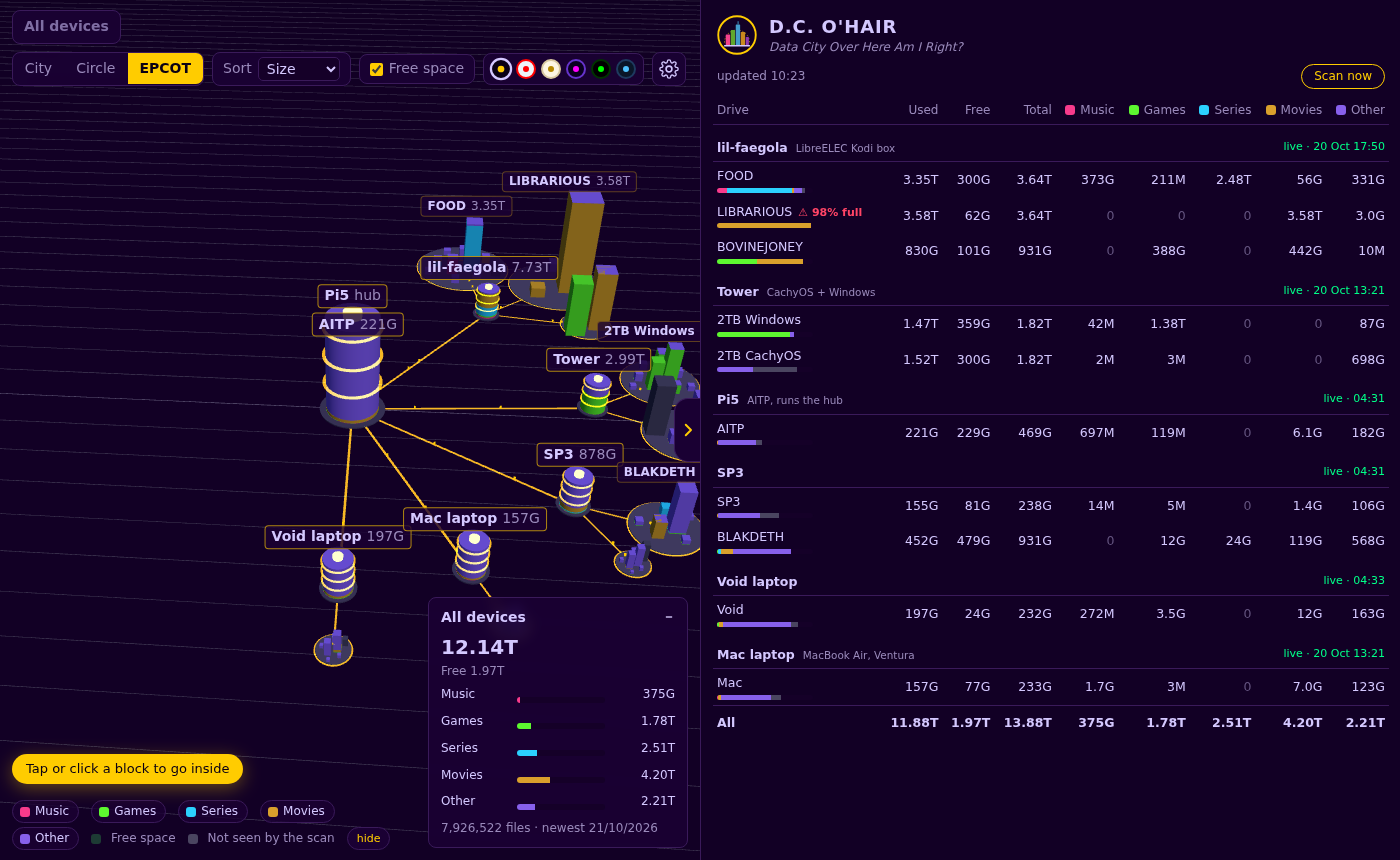
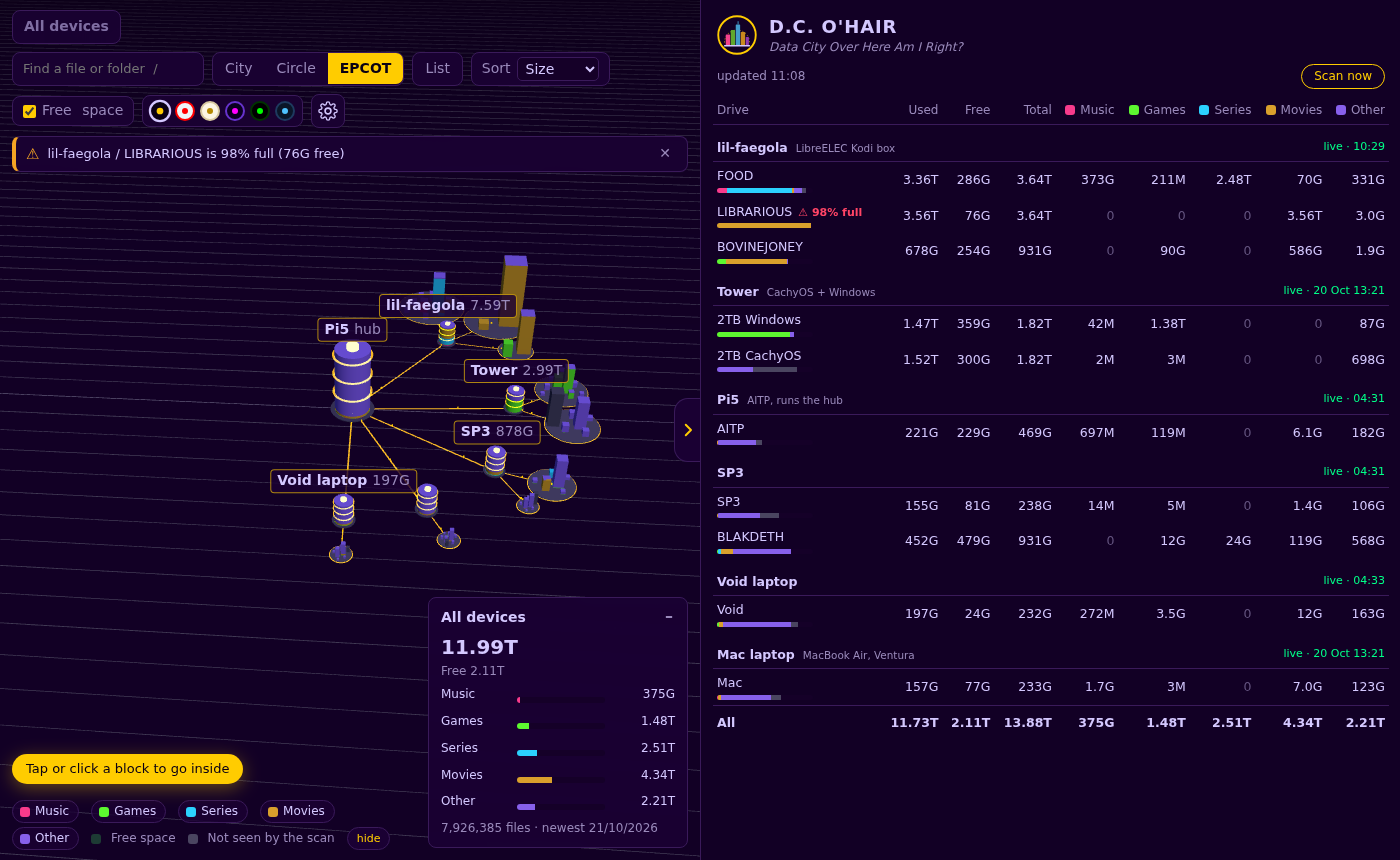
Phone and tablet polish, and a fresh set of screenshots (0.6.1)
The drive table becomes a draggable bottom sheet on narrow screens, touch
navigation works like a map (one finger moves, pinch zooms, two fingers
turn), the phone toolbar is tighter, the card starts small, and the
camera fits the city on tall screens. Every README GIF and screenshot is
re-taken; the README gains a 'What you can do with it' section and a
phone section.

diff --git a/web/style.css b/web/style.css
@@ -131,22 +131,29 @@ td.name svg polyline { fill: none; stroke: var(--accent); stroke-width: 1.5; str
 td.zero, td.none { color: color-mix(in srgb, var(--text2) 60%, transparent); }
 tfoot td { border-top: 1px solid var(--border); font-weight: 650; padding-top: 8px; }
 
+/* phones and portrait tablets: the pane becomes a bottom sheet you drag or tap */
+#panel .grab { display: none; }
 @media (max-width: 900px) {
-  :root { --pane-w: 100vw; }
-  #app { flex-direction: column; height: auto; }
-  #stage { flex: none; height: 68vh; height: 68dvh; }
-  #panel { width: 100%; max-height: 2000px; border-left: 0; border-top: 1px solid var(--border);
-    transition: max-height .5s var(--ease-pop), opacity .35s; }
-  .pane-closed #panel { width: 100%; max-height: 0; }
+  :root { --pane-w: 100vw; --peek: 74px; }
+  #app { display: block; height: 100vh; height: 100dvh; }
+  #stage { height: 100vh; height: 100dvh; }
+  #panel { position: fixed; z-index: 30; left: 0; right: 0; bottom: 0; width: 100%; height: 72vh; height: 72dvh;
+    border: 1px solid var(--border); border-bottom: 0; border-radius: 18px 18px 0 0; box-shadow: 0 -10px 40px rgba(0, 0, 0, .35);
+    transform: translateY(0); transition: transform .45s var(--ease-pop); opacity: 1; }
+  .pane-closed #panel { width: 100%; opacity: 1; border-left-width: 1px; transform: translateY(calc(100% - var(--peek))); }
+  #panel.dragging { transition: none; }
   #panel .inner { width: 100%; }
-  #paneToggle { top: auto; bottom: 0; right: 50%; margin: 0 -32px 0 0; width: 64px; height: 24px;
-    border-radius: 14px 14px 0 0; border: 1px solid var(--border); border-bottom: 0; }
-  #paneToggle:hover { width: 64px; height: 28px; }
-  #paneToggle svg { transform: rotate(90deg); }
-  .pane-closed #paneToggle svg { transform: rotate(-90deg); }
-  #card { width: 200px; max-height: 38%; bottom: 34px; }
-  #legend { right: 220px; bottom: 34px; }
-  #hint { font-size: 12px; }
+  #panel .grab { display: block; width: 100%; height: 20px; border: 0; background: none; padding: 0; cursor: grab; touch-action: none; }
+  #panel .grab::before { content: ""; display: block; width: 44px; height: 5px; margin: 8px auto 0; border-radius: 3px; background: var(--text2); opacity: .7; }
+  #panel header { padding: 2px 16px 6px; touch-action: none; cursor: pointer; }
+  #panel header img { width: 30px; height: 30px; }
+  #panel h1 { font-size: 15px; }
+  #panel .tag { font-size: 11px; }
+  #paneToggle { display: none; }
+  #card { width: 200px; max-height: 38%; bottom: calc(var(--peek) + 44px); }
+  #legend { right: 220px; bottom: calc(var(--peek) + 10px); }
+  #hint { font-size: 12px; bottom: calc(var(--peek) + 74px); }
+  #list { bottom: calc(var(--peek) + 64px); }
 }
 
 /* ---------- toolbar extras ---------- */
@@ -260,12 +267,26 @@ footer .note { flex: 1; font-size: 13px; }
 
 /* phones: one scrolling row of chips, the card tucked under the toolbar */
 @media (max-width: 600px) {
-  #legend { left: 8px; right: 8px; bottom: 34px; flex-wrap: nowrap; overflow-x: auto; padding-bottom: 2px; }
+  #legend { left: 8px; right: 8px; bottom: calc(var(--peek) + 8px); flex-wrap: nowrap; overflow-x: auto; padding-bottom: 2px; }
   #legend > span { display: none; }
   #legend .chip, #legend .lg { flex: none; }
-  #hint { top: auto; bottom: 70px; left: 50%; transform: translateX(-50%); font-size: 11px; padding: 4px 10px; }
-  #card { top: 158px; bottom: auto; right: 8px; }
+  #hint { top: auto; bottom: calc(var(--peek) + 46px); left: 50%; transform: translateX(-50%); font-size: 11px; padding: 4px 10px; }
+  #card { top: auto; bottom: calc(var(--peek) + 48px); right: 8px; max-height: 45%; }
   #card:not(.min) { width: min(260px, calc(100vw - 16px)); }
+  #hint.quiet { display: none; }
+  #hint { bottom: calc(var(--peek) + 92px); }
+  /* a tighter toolbar so the city keeps most of the screen */
+  #top { gap: 6px; left: 8px; right: 8px; top: 8px; }
+  #controls { gap: 6px; }
+  #controls .seg button, #listBtn, #healthBtn { padding: 5px 9px; font-size: 13px; }
+  .pick, .chk { padding: 3px 8px; font-size: 13px; }
+  .pick .lbl, .chk .lbl { display: none; }
+  .swatches { gap: 4px; padding: 4px 6px; }
+  .swatches button { width: 16px; height: 16px; }
+  .swatches button::after { inset: 4px; }
+  #gear { width: 30px; height: 30px; }
+  .search { flex: 1 1 100%; }
+  #find, #find:focus { width: 100%; }
 }
 
 /* push agent: OS tabs and the pairing wait */
@@ -312,7 +333,7 @@ footer .note { flex: 1; font-size: 13px; }
 #list td.share i { display: block; height: 100%; background: var(--accent); }
 @media (max-width: 600px) {
   #find { width: 120px; }
-  #list { top: 150px; bottom: 70px; left: 6px; right: 6px; }
+  #list { top: 150px; bottom: calc(var(--peek) + 50px); left: 6px; right: 6px; }
 }
 #list th:first-child { text-align: left; }
 

diff --git a/web/app.js b/web/app.js
@@ -536,6 +536,8 @@ controls.screenSpacePanning = false;
 controls.maxPolarAngle = Math.PI * 0.49;
 controls.minDistance = 2;
 controls.maxDistance = 6000;
+// touch works like a map: one finger moves around, pinch zooms, two fingers turn and tilt
+controls.touches = { ONE: THREE.TOUCH.PAN, TWO: THREE.TOUCH.DOLLY_ROTATE };
 
 const hemi = new THREE.HemisphereLight('#a9c4ff', '#0b0d18', 1.1);
 scene.add(hemi);
@@ -753,6 +755,7 @@ function infoHTML(node) {
 }
 
 const card = $('#card');
+if (prefs.cardMin === undefined && matchMedia('(max-width: 600px)').matches) prefs.cardMin = true;
 card.classList.add('float', 'info');
 function showCard() {
   const node = selected || root;
@@ -858,7 +861,8 @@ let tween = null;
 let dirty = true;
 
 function overview() {
-  const k = layout ? layout.extent / (W / 2) : 1;
+  // tall phone screens need to stand further back to fit the city's width
+  const k = (layout ? layout.extent / (W / 2) : 1) * Math.pow(Math.max(1, 1.3 / camera.aspect), 0.85);
   return { pos: BASE_VIEW.pos.clone().multiplyScalar(k), target: BASE_VIEW.target.clone().multiplyScalar(k) };
 }
 
@@ -1104,6 +1108,7 @@ const tbody = $('#drives tbody');
 tbody.addEventListener('click', (e) => {
   const node = rowNode(e.target.closest('tr.drv'));
   if (!node || node === root) return;
+  if (narrow()) setPane(false);
   if (layout.bounds.has(node)) drill(node); else setRoot(node);
 });
 tbody.addEventListener('mouseover', (e) => {
@@ -1431,6 +1436,35 @@ function setPane(open) {
 }
 $('#paneToggle').addEventListener('click', () => setPane(document.body.classList.contains('pane-closed')));
 
+// on phones and portrait tablets the pane is a bottom sheet: drag its handle or header, or tap them
+const narrow = () => matchMedia('(max-width: 900px)').matches;
+const panel = $('#panel');
+let sheetDrag = null;
+panel.addEventListener('pointerdown', (e) => {
+  if (!narrow() || !e.target.closest('.grab, header')) return;
+  sheetDrag = { y: e.clientY, h: panel.offsetHeight, closed: document.body.classList.contains('pane-closed'), moved: false };
+  panel.setPointerCapture(e.pointerId);
+});
+panel.addEventListener('pointermove', (e) => {
+  if (!sheetDrag) return;
+  const dy = e.clientY - sheetDrag.y;
+  if (!sheetDrag.moved && Math.abs(dy) < 6) return;
+  sheetDrag.moved = true;
+  panel.classList.add('dragging');
+  const peek = sheetDrag.h - parseFloat(getComputedStyle(document.documentElement).getPropertyValue('--peek'));
+  panel.style.transform = `translateY(${Math.max(0, Math.min(peek, (sheetDrag.closed ? peek : 0) + dy))}px)`;
+});
+panel.addEventListener('pointerup', (e) => {
+  if (!sheetDrag) return;
+  const { moved, closed, y } = sheetDrag;
+  const dy = e.clientY - y;
+  sheetDrag = null;
+  panel.classList.remove('dragging');
+  panel.style.transform = '';
+  setPane(moved ? (dy < -40 ? true : dy > 40 ? false : !closed) : closed);
+});
+panel.addEventListener('pointercancel', () => { sheetDrag = null; panel.classList.remove('dragging'); panel.style.transform = ''; });
+
 // ---------- scans ----------
 
 const scanBtn = $('#scanNow');
@@ -1494,7 +1528,7 @@ $('#gear').addEventListener('click', () => openSettings(me));
 
 markView();
 legend();
-setPane(prefs.pane !== false);
+setPane(prefs.pane === undefined ? !narrow() : prefs.pane !== false);
 themeScene();
 if (!renderer.getContext()) {
   $('#msg').textContent = 'This browser cannot draw 3D (WebGL is off).';

diff --git a/web/index.html b/web/index.html
@@ -5,10 +5,10 @@
 <meta name="viewport" content="width=device-width, initial-scale=1, viewport-fit=cover">
 <title>D.C. O'HAIR</title>
 <link rel="icon" href="/logo.svg" type="image/svg+xml">
-<link rel="stylesheet" href="/themes.css?v=0.6.1">
-<link rel="stylesheet" href="/style.css?v=0.6.1">
+<link rel="stylesheet" href="/themes.css?v=0.6.5">
+<link rel="stylesheet" href="/style.css?v=0.6.5">
 <script src="/theme-config.js"></script>
-<script src="/theme-boot.js?v=0.6.1"></script>
+<script src="/theme-boot.js?v=0.6.5"></script>
 <script type="importmap">
 {"imports": {"three": "/vendor/three/three.module.min.js", "three/addons/": "/vendor/three/"}}
 </script>
@@ -35,7 +35,7 @@
         </div>
         <button type="button" id="listBtn" class="float" aria-pressed="false" title="A plain list of what's here">List</button>
         <button type="button" id="healthBtn" class="float" aria-pressed="false" title="Show drive health" hidden>Health</button>
-        <label class="pick">Sort
+        <label class="pick"><span class="lbl">Sort</span>
           <select id="sort">
             <option value="type">Type</option>
             <option value="size">Size</option>
@@ -44,7 +44,7 @@
             <option value="name">Name</option>
           </select>
         </label>
-        <label class="chk"><input type="checkbox" id="showFree"> Free space</label>
+        <label class="chk"><input type="checkbox" id="showFree"> <span>Free<span class="lbl"> space</span></span></label>
         <div class="swatches" id="themes" role="group" aria-label="Theme"></div>
         <button type="button" id="gear" class="float" title="Settings" aria-label="Settings" hidden>
           <svg viewBox="0 0 24 24" aria-hidden="true"><path d="M12 15.5a3.5 3.5 0 1 0 0-7 3.5 3.5 0 0 0 0 7Z" fill="none" stroke="currentColor" stroke-width="2"/><path d="M19.4 15a1.7 1.7 0 0 0 .3 1.8l.1.1a2 2 0 1 1-2.8 2.8l-.1-.1a1.7 1.7 0 0 0-1.8-.3 1.7 1.7 0 0 0-1 1.5V21a2 2 0 1 1-4 0v-.1a1.7 1.7 0 0 0-1.1-1.5 1.7 1.7 0 0 0-1.8.3l-.1.1a2 2 0 1 1-2.8-2.8l.1-.1a1.7 1.7 0 0 0 .3-1.8 1.7 1.7 0 0 0-1.5-1H3a2 2 0 1 1 0-4h.1a1.7 1.7 0 0 0 1.5-1.1 1.7 1.7 0 0 0-.3-1.8l-.1-.1a2 2 0 1 1 2.8-2.8l.1.1a1.7 1.7 0 0 0 1.8.3H9a1.7 1.7 0 0 0 1-1.5V3a2 2 0 1 1 4 0v.1a1.7 1.7 0 0 0 1 1.5 1.7 1.7 0 0 0 1.8-.3l.1-.1a2 2 0 1 1 2.8 2.8l-.1.1a1.7 1.7 0 0 0-.3 1.8V9a1.7 1.7 0 0 0 1.5 1H21a2 2 0 1 1 0 4h-.1a1.7 1.7 0 0 0-1.5 1Z" fill="none" stroke="currentColor" stroke-width="1.6"/></svg>
@@ -65,6 +65,7 @@
   </section>
   <aside id="panel">
     <div class="inner">
+      <button type="button" class="grab" aria-label="Show or hide the drive table"></button>
       <header>
         <img src="/logo.svg" alt="" width="40" height="40">
         <div>
@@ -93,6 +94,6 @@
     </div>
   </aside>
 </main>
-<script type="module" src="/app.js?v=0.6.1"></script>
+<script type="module" src="/app.js?v=0.6.5"></script>
 </body>
 </html>

diff --git a/hub.py b/hub.py
@@ -18,7 +18,7 @@ from collect import DATA, load
 
 HERE = os.path.dirname(os.path.abspath(__file__))
 WEB = os.path.join(HERE, 'web')
-VERSION = '0.6.0'
+VERSION = '0.6.1'
 THEME_DEFAULTS = {'cookie': 'dc-theme', 'storage': 'dc-theme', 'domain': '', 'default': 'dark'}
 UI_DEFAULTS = {'view': 'city', 'units': 'binary'}
 SESSION_DAYS = 30

diff --git a/README.md b/README.md
@@ -19,10 +19,21 @@ It's for anyone with a few machines and a pile of disks: a media server, a gamin
 - **Nothing to install on your devices.** The hub sends a small Python script over SSH and reads the answer. The device only needs `python3`.
 - **Self-hosted.** It's one small Python service plus a web page. No cloud and no account.
 
+## What you can do with it
+
+- **Find what's eating your space.** Every drive on every machine in one view: the biggest buildings are the biggest files. Prefer numbers? Press **List** for the biggest files below wherever you are.
+- **Compare your machines.** Devices sit side by side as districts, next to a table of Used, Free and Total, plus Music, Games, Series, Movies and Other for every drive.
+- **See what grew.** Each drive has a 90-day sparkline, and *Sort → Newest* lights up what just landed.
+- **Find anything.** Search every drive by name and fly straight to it.
+- **Hear about trouble.** A banner, and optional ntfy, Discord or email alerts, when a drive is almost full or (if you turn on health) starting to fail.
+- **Bring every device.** Linux, macOS, LibreELEC/Kodi and NAS boxes over SSH; Windows and out-of-reach machines with a one-line push agent; and a network search to find them all.
+- **Use it anywhere.** Mouse and keyboard, or touch on a phone or tablet, in six themes.
+
 ---
 
 ## Contents
 
+- [What you can do with it](#what-you-can-do-with-it)
 - [Quick start](#quick-start)
 - [Try it without your data](#try-it-without-your-data)
 - [First-run setup, step by step](#first-run-setup-step-by-step)
@@ -166,9 +177,9 @@ Big drives take a few minutes. After that, the hub rescans every day at 04:30, o
 
 | To | Mouse / keyboard | Touch |
 |---|---|---|
-| Look around | drag | one-finger drag |
+| Look around | drag | two-finger turn and tilt |
 | Zoom | scroll wheel | pinch |
-| Pan | right-drag | two-finger drag |
+| Move around | right-drag | one-finger drag |
 | Fly | W A S D, Q/E for down/up, Shift for faster | (none) |
 | Go inside | click a block | tap a block |
 | Go back up | Esc, Backspace, or **Back** | **Back** |
@@ -210,7 +221,7 @@ The color key at the bottom is also a filter. **Tap a chip** to hide or show tha
 
 The side pane lists every drive: **Used**, **Free**, **Total**, then **Music**, **Games**, **Series**, **Movies** and **Other**. Under each drive name there's a little bar showing what fills it, and a sparkline of how its used space changed over the last 90 days. A drive that's over the alert line (90% by default) gets a **⚠ 95% full** marker. Tap a row to fly to that drive.
 
-Hide the pane with the tab on its edge, and bring it back the same way. On a phone or narrow screen, the pane sits under the city instead.
+Hide the pane with the tab on its edge, and bring it back the same way. On a phone or tablet it becomes a sheet at the bottom instead (see below).
 
 <p align="center"><img src="docs/media/pane.gif" width="900" alt="Hiding and showing the side pane"></p>
 
@@ -233,13 +244,20 @@ Turn it on in **Settings → Health** with either source:
 Then it stays hidden. Press **Health** in the toolbar to see it: each drive gets an **OK / Warning / Failing** line in the table (temperature, power-on hours, reallocated and pending sectors) and a green, amber or red rim in the 3D views. Each drive's info card always shows its health. The only thing that ever shows without asking is a small red dot on a drive that's actually **failing**, and you can turn that off too.
 
 <p align="center"><img src="docs/media/health.png" width="760" alt="Health turned on: OK, warning and failing drives"></p>
+<p align="center"><img src="docs/media/settings-health.png" width="760" alt="Settings: where health comes from"></p>
+
+### On a phone or tablet
+
+On a narrow screen the drive table becomes a sheet at the bottom: drag it up or tap its handle to see it, and tap a drive to fly there. One finger moves around the city, a pinch zooms, and two fingers turn and tilt it.
+
+<p align="center"><img src="docs/media/phone.gif" width="30%" alt="Tapping into a drive on a phone"> <img src="docs/media/mobile.png" width="30%" alt="The city on a phone"> <img src="docs/media/mobile-sheet.png" width="30%" alt="The drive table as a bottom sheet"></p>
 
 ### Themes
 
 There are six themes: dark, light, sepia, cyberpunk, matrix and ocean. The whole scene follows the theme: sky, ground, grid, labels and the building colors. Each theme has its own five category colors, checked so they stay easy to tell apart for people with common kinds of color blindness.
 
 <p align="center"><img src="docs/media/themes.gif" width="900" alt="Cycling through the six themes"></p>
-<p align="center"><img src="docs/media/light.png" width="49%" alt="Light theme"> <img src="docs/media/mobile.png" width="25%" alt="On a phone"></p>
+<p align="center"><img src="docs/media/light.png" width="760" alt="Light theme"></p>
 
 If you run other sites on the same domain, the theme can follow a shared cookie, so picking a theme on one site changes it here too. See `hub.theme` in [docs/configuration.md](docs/configuration.md).
 

diff --git a/CHANGELOG.md b/CHANGELOG.md
@@ -8,6 +8,15 @@ All notable changes to D.C. O'HAIR are listed here. Versions follow [semantic ve
 - OIDC login, and a VoidAuth helper.
 - Phone apps on the same JSON API.
 
+## [0.6.1] - phones, tablets and a fresh coat
+
+### Changed
+- On phones and portrait tablets the drive table is a **bottom sheet**: drag or tap its handle, and tapping a drive flies there and tucks the sheet away.
+- Touch works like a map: one finger moves around, a pinch zooms, two fingers turn and tilt.
+- A tighter toolbar on phones, the info card starts small there, and the camera stands back far enough to fit the city on a tall screen.
+- The repository is now github.com/nviiiivn/diskcity; the product is still D.C. O'HAIR.
+- New screenshots and GIFs throughout the README.
+
 ## [0.6.0] - alerts and notifications
 
 ### Added
